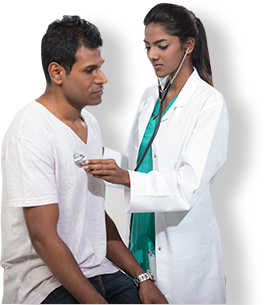
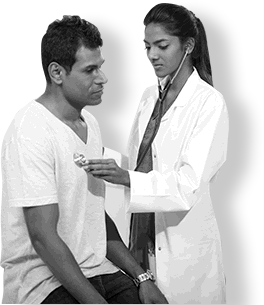
Home page with black and white

diff --git a/src/main/webapp/app/components/home/homeExpertPanel.html b/src/main/webapp/app/components/home/homeExpertPanel.html
@@ -8,37 +8,37 @@
             <div class="by_expertsPanel_wrap">
                 <div class="by_ourExpertTop">
                     <div class="by_ourExpertThumb">
-                        <img src="assets/img/home/Lohith.png?versionTimeStamp=%PROJECT_VERSION%" class="by_ourExpertThumbImg" alt="Dr. Lohith" /><br/>
+                        <img src="assets/img/home/Lohith-bw.png?versionTimeStamp=%PROJECT_VERSION%" class="by_ourExpertThumbImg" alt="Dr. Lohith" /><br/>
                         <b>Dr. Lohith </b><br/>
                         Physician<br/>
                         <img src="assets/img/home/arrow_expert.png?versionTimeStamp=%PROJECT_VERSION%" alt="Indicator" width="30" class="by_ourExpertThumbArrow"/>
                     </div>
                     <div class="by_ourExpertThumb">
-                        <img src="assets/img/home/diwakar.png?versionTimeStamp=%PROJECT_VERSION%"  class="by_ourExpertThumbImg" alt="Dr.  Diwakar" /><br/>
+                        <img src="assets/img/home/diwakar-bw.png?versionTimeStamp=%PROJECT_VERSION%"  class="by_ourExpertThumbImg" alt="Dr.  Diwakar" /><br/>
                         <b>Dr.  Diwakar </b><br/>
                         Dentist<br/>
                         <img src="assets/img/home/arrow_expert.png?versionTimeStamp=%PROJECT_VERSION%" alt="Indicator" width="30" class="by_ourExpertThumbArrow"/>
                     </div>
                     <div class="by_ourExpertThumb">
-                        <img src="assets/img/home/narendra.png?versionTimeStamp=%PROJECT_VERSION%" class="by_ourExpertThumbImg" alt="Dr. Narendra" /><br/>
+                        <img src="assets/img/home/narendra-bw.png?versionTimeStamp=%PROJECT_VERSION%" class="by_ourExpertThumbImg" alt="Dr. Narendra" /><br/>
                         <b>Dr. Narendra  </b><br/>
                         Surgeon<br/>
                         <img src="assets/img/home/arrow_expert.png?versionTimeStamp=%PROJECT_VERSION%" alt="Indicator" width="30" class="by_ourExpertThumbArrow"/>
                     </div>
                     <div class="by_ourExpertThumb  desktopExpertPanel">
-                        <img src="assets/img/home/nitin.png?versionTimeStamp=%PROJECT_VERSION%" class="by_ourExpertThumbImg" alt="Dr. Nithin" /><br/>
+                        <img src="assets/img/home/nitin-bw.png?versionTimeStamp=%PROJECT_VERSION%" class="by_ourExpertThumbImg" alt="Dr. Nithin" /><br/>
                         <b>Dr. Nithin   </b><br/>
                         Neurologist<br/>
                         <img src="assets/img/home/arrow_expert.png?versionTimeStamp=%PROJECT_VERSION%" alt="Indicator" width="30" class="by_ourExpertThumbArrow"/>
                     </div>
                     <div class="by_ourExpertThumb  desktopExpertPanel">
-                        <img src="assets/img/home/Padmashree.png?versionTimeStamp=%PROJECT_VERSION%" class="by_ourExpertThumbImg" alt="Padmashree" /><br/>
+                        <img src="assets/img/home/Padmashree-bw.png?versionTimeStamp=%PROJECT_VERSION%" class="by_ourExpertThumbImg" alt="Padmashree" /><br/>
                         <b>Padmashree  </b><br/>
                         Caregiver<br/>
                         <img src="assets/img/home/arrow_expert.png?versionTimeStamp=%PROJECT_VERSION%" alt="Indicator" width="30" class="by_ourExpertThumbArrow"/>
                     </div>
                     <div class="by_ourExpertThumb  desktopExpertPanel">
-                        <img src="assets/img/home/rukmani.png?versionTimeStamp=%PROJECT_VERSION%" class="by_ourExpertThumbImg" alt="Rukmani" /><br/>
+                        <img src="assets/img/home/rukmani-bw.png?versionTimeStamp=%PROJECT_VERSION%" class="by_ourExpertThumbImg" alt="Rukmani" /><br/>
                         <b>Rukmani  </b><br/>
                         Advocate<br/>
                         <img src="assets/img/home/arrow_expert.png?versionTimeStamp=%PROJECT_VERSION%" alt="Indicator" width="30" class="by_ourExpertThumbArrow"/>
@@ -140,19 +140,19 @@
                 </div>
                 <div class="by_ourExpertTop2 margin-top-20 mobileExpertPanelThree" >
                     <div class="by_ourExpertThumb">
-                        <img src="assets/img/home/nitin.png?versionTimeStamp=%PROJECT_VERSION%" class="by_ourExpertThumbImg" alt="Dr. Nithin" /><br/>
+                        <img src="assets/img/home/nitin-bw.png?versionTimeStamp=%PROJECT_VERSION%" class="by_ourExpertThumbImg" alt="Dr. Nithin" /><br/>
                         <b>Dr. Nithin   </b><br/>
                         Neurologist<br/>
                         <img src="assets/img/home/arrow_expert.png?versionTimeStamp=%PROJECT_VERSION%" alt="Indicator" width="30" class="by_ourExpertThumbArrow"/>
                     </div>
                     <div class="by_ourExpertThumb">
-                        <img src="assets/img/home/Padmashree.png?versionTimeStamp=%PROJECT_VERSION%" alt="Padmashree" class="by_ourExpertThumbImg" /><br/>
+                        <img src="assets/img/home/Padmashree-bw.png?versionTimeStamp=%PROJECT_VERSION%" alt="Padmashree" class="by_ourExpertThumbImg" /><br/>
                         <b>Padmashree  </b><br/>
                         Caregiver<br/>
                         <img src="assets/img/home/arrow_expert.png?versionTimeStamp=%PROJECT_VERSION%" alt="Indicator" width="30" class="by_ourExpertThumbArrow"/>
                     </div>
                     <div class="by_ourExpertThumb">
-                        <img src="assets/img/home/rukmani.png?versionTimeStamp=%PROJECT_VERSION%" alt="Rukmani" class="by_ourExpertThumbImg" /><br/>
+                        <img src="assets/img/home/rukmani-bw.png?versionTimeStamp=%PROJECT_VERSION%" alt="Rukmani" class="by_ourExpertThumbImg" /><br/>
                         <b>Rukmani  </b><br/>
                         Advocate<br/>
                         <img src="assets/img/home/arrow_expert.png?versionTimeStamp=%PROJECT_VERSION%" alt="Indicator" width="30" class="by_ourExpertThumbArrow"/>

diff --git a/src/main/webapp/app/components/home/homeFeedback.html b/src/main/webapp/app/components/home/homeFeedback.html
@@ -3,7 +3,7 @@
 		<div class="by_homeSectionInside">
 			<div class="by_homeFeedback divLeft">
 				<div class="by_homeFeedbackImage divLeft">
-					 <img src="assets/img/aboutUs/sourabh.png?versionTimeStamp=%PROJECT_VERSION%" alt="Sourabh" width="199" />
+					 <img src="assets/img/home/sourabh-bw.png?versionTimeStamp=%PROJECT_VERSION%" alt="Sourabh" width="199" />
 				</div>
 				<div class="by_homeFeedbackName divLeft">
 					Sourabh
@@ -15,7 +15,7 @@
 			</div>
 			<div class="by_homeFeedback divRight">
 				<div class="by_homeFeedbackImage divLeft">
-					 <img src="assets/img/aboutUs/jharana.png?versionTimeStamp=%PROJECT_VERSION%" alt="Jharana" width="199" />
+					 <img src="assets/img/home/jharana-bw.png?versionTimeStamp=%PROJECT_VERSION%" alt="Jharana" width="199" />
 				</div>
 				<div class="by_homeFeedbackName divLeft">
 					Jharana

diff --git a/src/main/webapp/app/components/home/homeModalHouse.html b/src/main/webapp/app/components/home/homeModalHouse.html
@@ -2,7 +2,7 @@
 	<div class="by_homeSection paddingZero">
 		<div class="by_homeSectionInside">
 			<div class="by_homeModalLeft">
-				 <img src="assets/img/home/model_home.jpg?versionTimeStamp=%PROJECT_VERSION%" alt="Modal House" width="100%" />
+				 <img src="assets/img/home/model_home.png?versionTimeStamp=%PROJECT_VERSION%" alt="Modal House" width="100%" />
 			</div>
 			<div class="by_homeModalRight">
 				Are you in Bangalore? Please visit <br/> 
